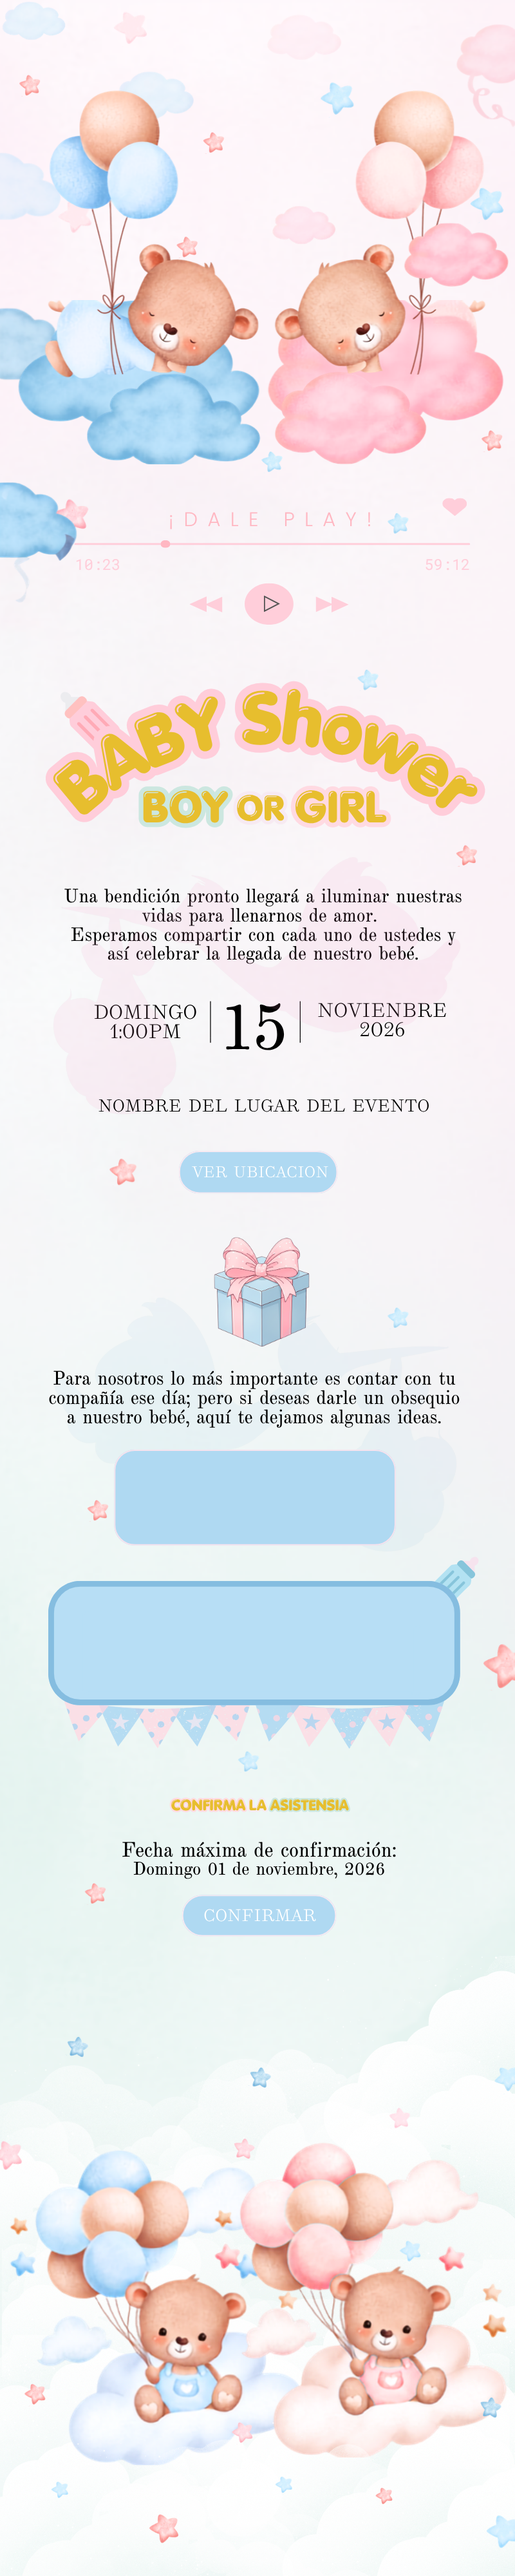
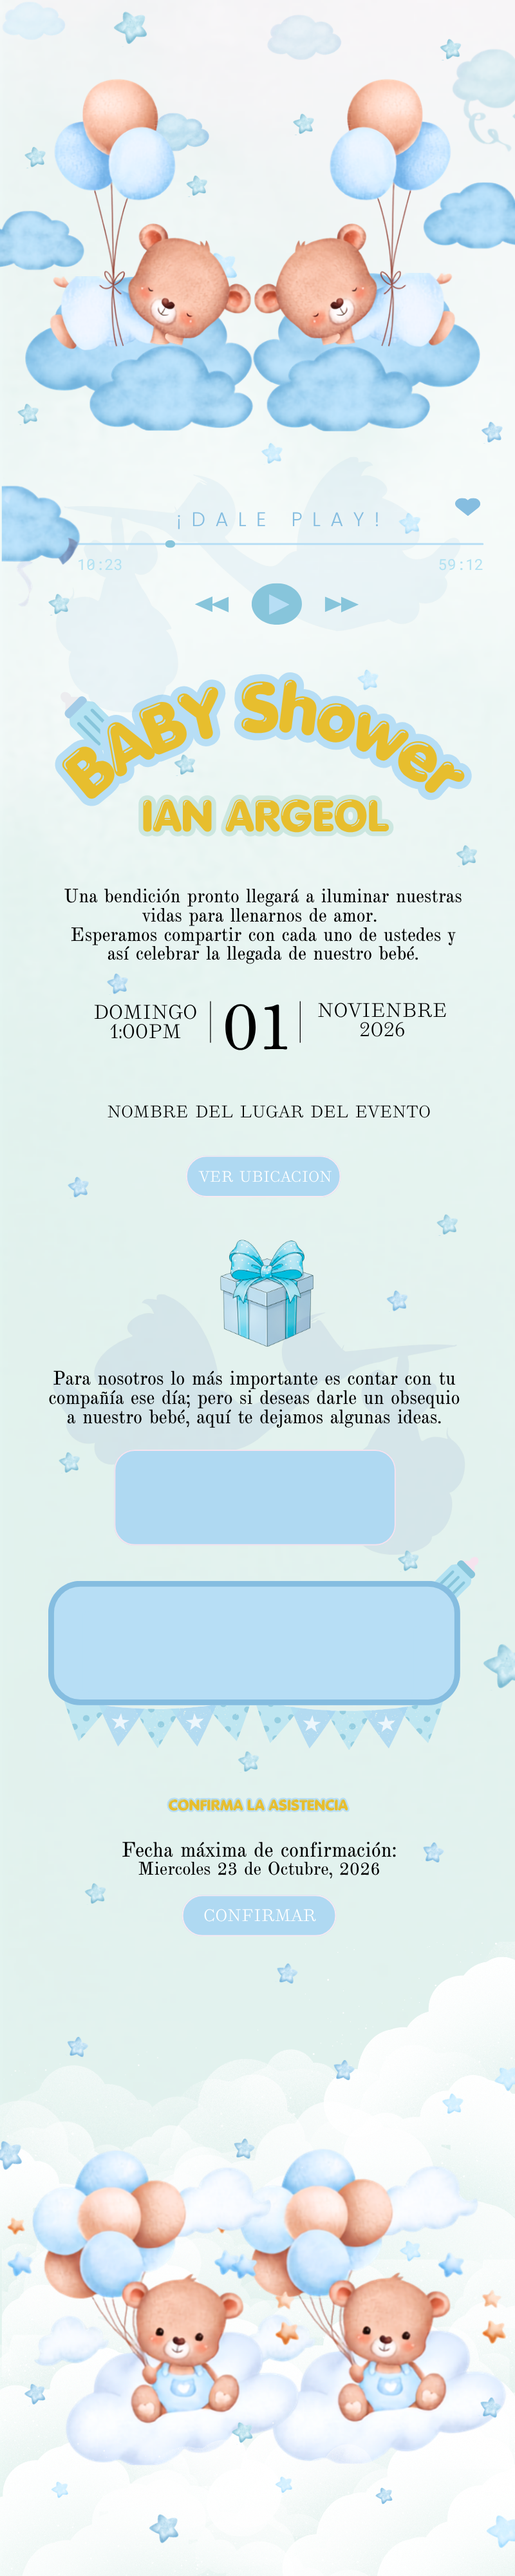
Actualizacion de Cambio en errores

diff --git a/src/app/[slug]/ContadorRegresivo.js b/src/app/[slug]/ContadorRegresivo.js
@@ -3,7 +3,7 @@ import { useState, useEffect } from 'react';
 
 export default function ContadorRegresivo() {
   // 1. Definimos la fecha meta del evento: Domingo 15 de Noviembre de 2026 a la 1:00 PM
-  const FECHA_META = new Date('2026-11-15T13:00:00').getTime();
+  const FECHA_META = new Date('2026-11-01T13:00:00').getTime();
 
   // Estado inicializado a cero para evitar problemas de hidratación en Next.js
   const [tiempoRestante, setTiempoRestante] = useState({
@@ -41,52 +41,52 @@ export default function ContadorRegresivo() {
   return (
     /* Posicionamiento calibrado al 63% de altura */
     <div className="absolute top-[63%] left-0 w-full z-10 flex justify-center items-center px-4 select-none">
-      
-      {/* Sombra de caja sutil para agrupar todo el bloque si se requiere */}
-      <div className="flex gap-3 justify-center items-center font-mono ">
-        
+
+      {/* Reducimos el espacio entre bloques (gap-1.5) y añadimos la sombra de relieve */}
+      <div className="flex gap-1.5 justify-center items-center font-mono drop-shadow-[0_2px_3px_rgba(0,0,0,0.4)]">
+
         {/* Bloque Días */}
-        <div className="flex flex-col items-center min-w-[55px]">
-          <span className="text-3xl font-black text-white tracking-tight">
+        <div className="flex flex-col items-center min-w-[40px]">
+          <span className="text-xl font-black text-white tracking-tight leading-none">
             {formatearNumero(tiempoRestante.dias)}
           </span>
-          <span className="text-[10px] uppercase font-extrabold text-white/90 tracking-widest mt-0.5">
+          <span className="text-[8px] uppercase font-black text-white/90 tracking-wider mt-1">
             Días
           </span>
         </div>
 
-        <span className="text-2xl font-black text-white animate-pulse bottom-1 relative">:</span>
+        <span className="text-lg font-black text-white animate-pulse bottom-[3px] relative">:</span>
 
         {/* Bloque Horas */}
-        <div className="flex flex-col items-center min-w-[55px]">
-          <span className="text-3xl font-black text-white tracking-tight">
+        <div className="flex flex-col items-center min-w-[40px]">
+          <span className="text-xl font-black text-white tracking-tight leading-none">
             {formatearNumero(tiempoRestante.horas)}
           </span>
-          <span className="text-[10px] uppercase font-extrabold text-white/90 tracking-widest mt-0.5">
+          <span className="text-[8px] uppercase font-black text-white/90 tracking-wider mt-1">
             Horas
           </span>
         </div>
 
-        <span className="text-2xl font-black text-white animate-pulse bottom-1 relative">:</span>
+        <span className="text-lg font-black text-white animate-pulse bottom-[3px] relative">:</span>
 
         {/* Bloque Minutos */}
-        <div className="flex flex-col items-center min-w-[55px]">
-          <span className="text-3xl font-black text-white tracking-tight">
+        <div className="flex flex-col items-center min-w-[40px]">
+          <span className="text-xl font-black text-white tracking-tight leading-none">
             {formatearNumero(tiempoRestante.minutos)}
           </span>
-          <span className="text-[10px] uppercase font-extrabold text-white/90 tracking-widest mt-0.5">
+          <span className="text-[8px] uppercase font-black text-white/90 tracking-wider mt-1">
             Min
           </span>
         </div>
 
-        <span className="text-2xl font-black text-white animate-pulse bottom-1 relative">:</span>
+        <span className="text-lg font-black text-white animate-pulse bottom-[3px] relative">:</span>
 
         {/* Bloque Segundos */}
-        <div className="flex flex-col items-center min-w-[55px]">
-          <span className="text-3xl font-black text-white tracking-tight">
+        <div className="flex flex-col items-center min-w-[40px]">
+          <span className="text-xl font-black text-white tracking-tight leading-none">
             {formatearNumero(tiempoRestante.segundos)}
           </span>
-          <span className="text-[10px] uppercase font-extrabold text-white/90 tracking-widest mt-0.5">
+          <span className="text-[8px] uppercase font-black text-white/90 tracking-wider mt-1">
             Seg
           </span>
         </div>

diff --git a/src/app/[slug]/ComponenteInvitacionClient.js b/src/app/[slug]/ComponenteInvitacionClient.js
@@ -38,12 +38,12 @@ export default function ComponenteInvitacionClient({ nombre, regalo1, regalo2, m
 
         {/* --- CAPAS DE TEXTO DINÁMICO (Ajusta la posición para que floten estéticos) --- */}
         <div className="absolute top-[33%] left-0 w-full text-center">
-          <h2 className="text-2xl font-bold text-[#4A4A4A] tracking-wide">
+          <h2 className="text-xl font-serif  text-[#4A4A4A] tracking-wide">
             ¡Hola, {nombre}!
           </h2>
         </div>
         <div className="absolute top-[43.5%] left-0 w-full text-center px-12 select-none">
-          <p className="text-[14px] text-[#000000] italic uppercase tracking-widest mb-2">
+          <p className="text-[14px] text-[#574d4d] font-serif uppercase tracking-widest mb-2">
             Cra 8 #41-66 Ibague Tolima
           </p>
         </div>
@@ -61,12 +61,12 @@ export default function ComponenteInvitacionClient({ nombre, regalo1, regalo2, m
           <div className="flex flex-col gap-1.5 justify-center items-center drop-shadow-[0_2px_4px_rgba(0,0,0,0.45)]">
 
             {/* Primer Regalo */}
-            <span className="block max-w-[240px] text-sm font-black text-white whitespace-normal break-words leading-tight tracking-wide">
+            <span className="block max-w-[240px] text-xs font-black text-white whitespace-normal break-words leading-tight tracking-wide">
               {regalo1}
             </span>
             {/* Segundo Regalo */}
             {regalo2 && (
-              <span className="block max-w-[240px] text-sm font-black text-white whitespace-normal break-words leading-tight tracking-wide">
+              <span className="block max-w-[240px] text-xs font-black text-white whitespace-normal break-words leading-tight tracking-wide">
                 {regalo2}
               </span>
             )}
@@ -79,12 +79,12 @@ export default function ComponenteInvitacionClient({ nombre, regalo1, regalo2, m
 
         {/* 1. Botón de Play Azul */}
         {/* CONTENEDOR EN TUS COORDENADAS EXACTAS: TOP 22% / LEFT 47% */}
-        <div className="absolute top-[22%] left-[47%] w-[12%] aspect-square z-20">
+        <div className="absolute top-[22%] left-[48%] w-[12%] aspect-square z-20">
 
           {/* Botón táctil nativo*/}
           <div
             onClick={controlarMusica}
-            className="w-full h-full cursor-pointer rounded-full bg-blue-500/10 active:bg-white/40 transition-colors"
+            className="w-full h-full cursor-pointer rounded-full bg-redx|-500/10 active:bg-white/40 transition-colors"
             title="Reproducir Música"
           />
 

diff --git a/src/app/[slug]/page.js b/src/app/[slug]/page.js
@@ -3,31 +3,34 @@ import { listaInvitados } from '@/data/invitados';
 import { notFound } from 'next/navigation';
 import ComponenteInvitacionClient from "./ComponenteInvitacionClient";
 
-// 1. La función DEBE ser asíncrona (async) para poder leer los parámetros en las versiones nuevas
-async function PaginaSlug({ params }) {
-    
-    // 2. Esperamos (await) a que Next.js capture los parámetros de la URL
+export default async function PaginaSlug({ params }) {
+    // 1. Esperamos los parámetros de la URL
     const { slug } = await params;
+    if (!slug) return notFound();
 
-    // 3. Buscamos al invitado en nuestro archivo "data/invitados.js"
-    const datosInvitado = listaInvitados[slug?.toLowerCase()];
+    // 2. Normalizamos el slug que viene de la URL (Pasar a minúsculas y quitar espacios sueltos si los hay)
+    const slugFormateado = slug.trim().toLowerCase();
 
-    // 4. Si el invitado no existe en la lista (ej: alguien escribe /perrito), mandamos un 404 limpio
+    // 3. BUSQUEDA INTELIGENTE E INSENSIBLE A MAYÚSCULAS/MINÚSCULAS
+    // Buscamos dentro de las llaves de tu objeto si hay alguna que coincida al convertirla a minúsculas
+    const claveEncontrada = Object.keys(listaInvitados).find(
+        (key) => key.trim().toLowerCase() === slugFormateado
+    );
+
+    // 4. Extraemos los datos usando la clave real encontrada (ej: "Leidy-GUIO")
+    const datosInvitado = claveEncontrada ? listaInvitados[claveEncontrada] : null;
+
+    // 5. Si de verdad no existe en tus 37 registros, mandamos al 404 seguro
     if (!datosInvitado) {
         return notFound();
     }
 
-    // 5. ¡Obligatorio el RETURN! Pasamos los datos dinámicos al componente interactivo
     return (
-        <>
-            <ComponenteInvitacionClient 
-                nombre={datosInvitado.nombre} 
-                regalo1={datosInvitado.regalo1}
-                regalo2={datosInvitado.regalo2}
-                mensajeConfirmacion={datosInvitado.mensajeConfirmacion}
-            />
-        </>
+        <ComponenteInvitacionClient 
+            nombre={datosInvitado.nombre} 
+            regalo1={datosInvitado.regalo1}
+            regalo2={datosInvitado.regalo2}
+            mensajeConfirmacion={datosInvitado.mensajeConfirmacion}
+        />
     );
 }
-
-export default PaginaSlug;

diff --git a/src/data/invitados.js b/src/data/invitados.js
@@ -17,7 +17,7 @@ export const listaInvitados = {
   },
 
   // Opción 2: Pareja
-  "Leidy-Guio": {
+  "leidy-guio": {
     nombre: "Leidy Paola Guio Cespedes",
     regalo1: "EL COCHE",
     regalo2: "LA CAMA DONDE VA A DORMIR EL BEBE",
